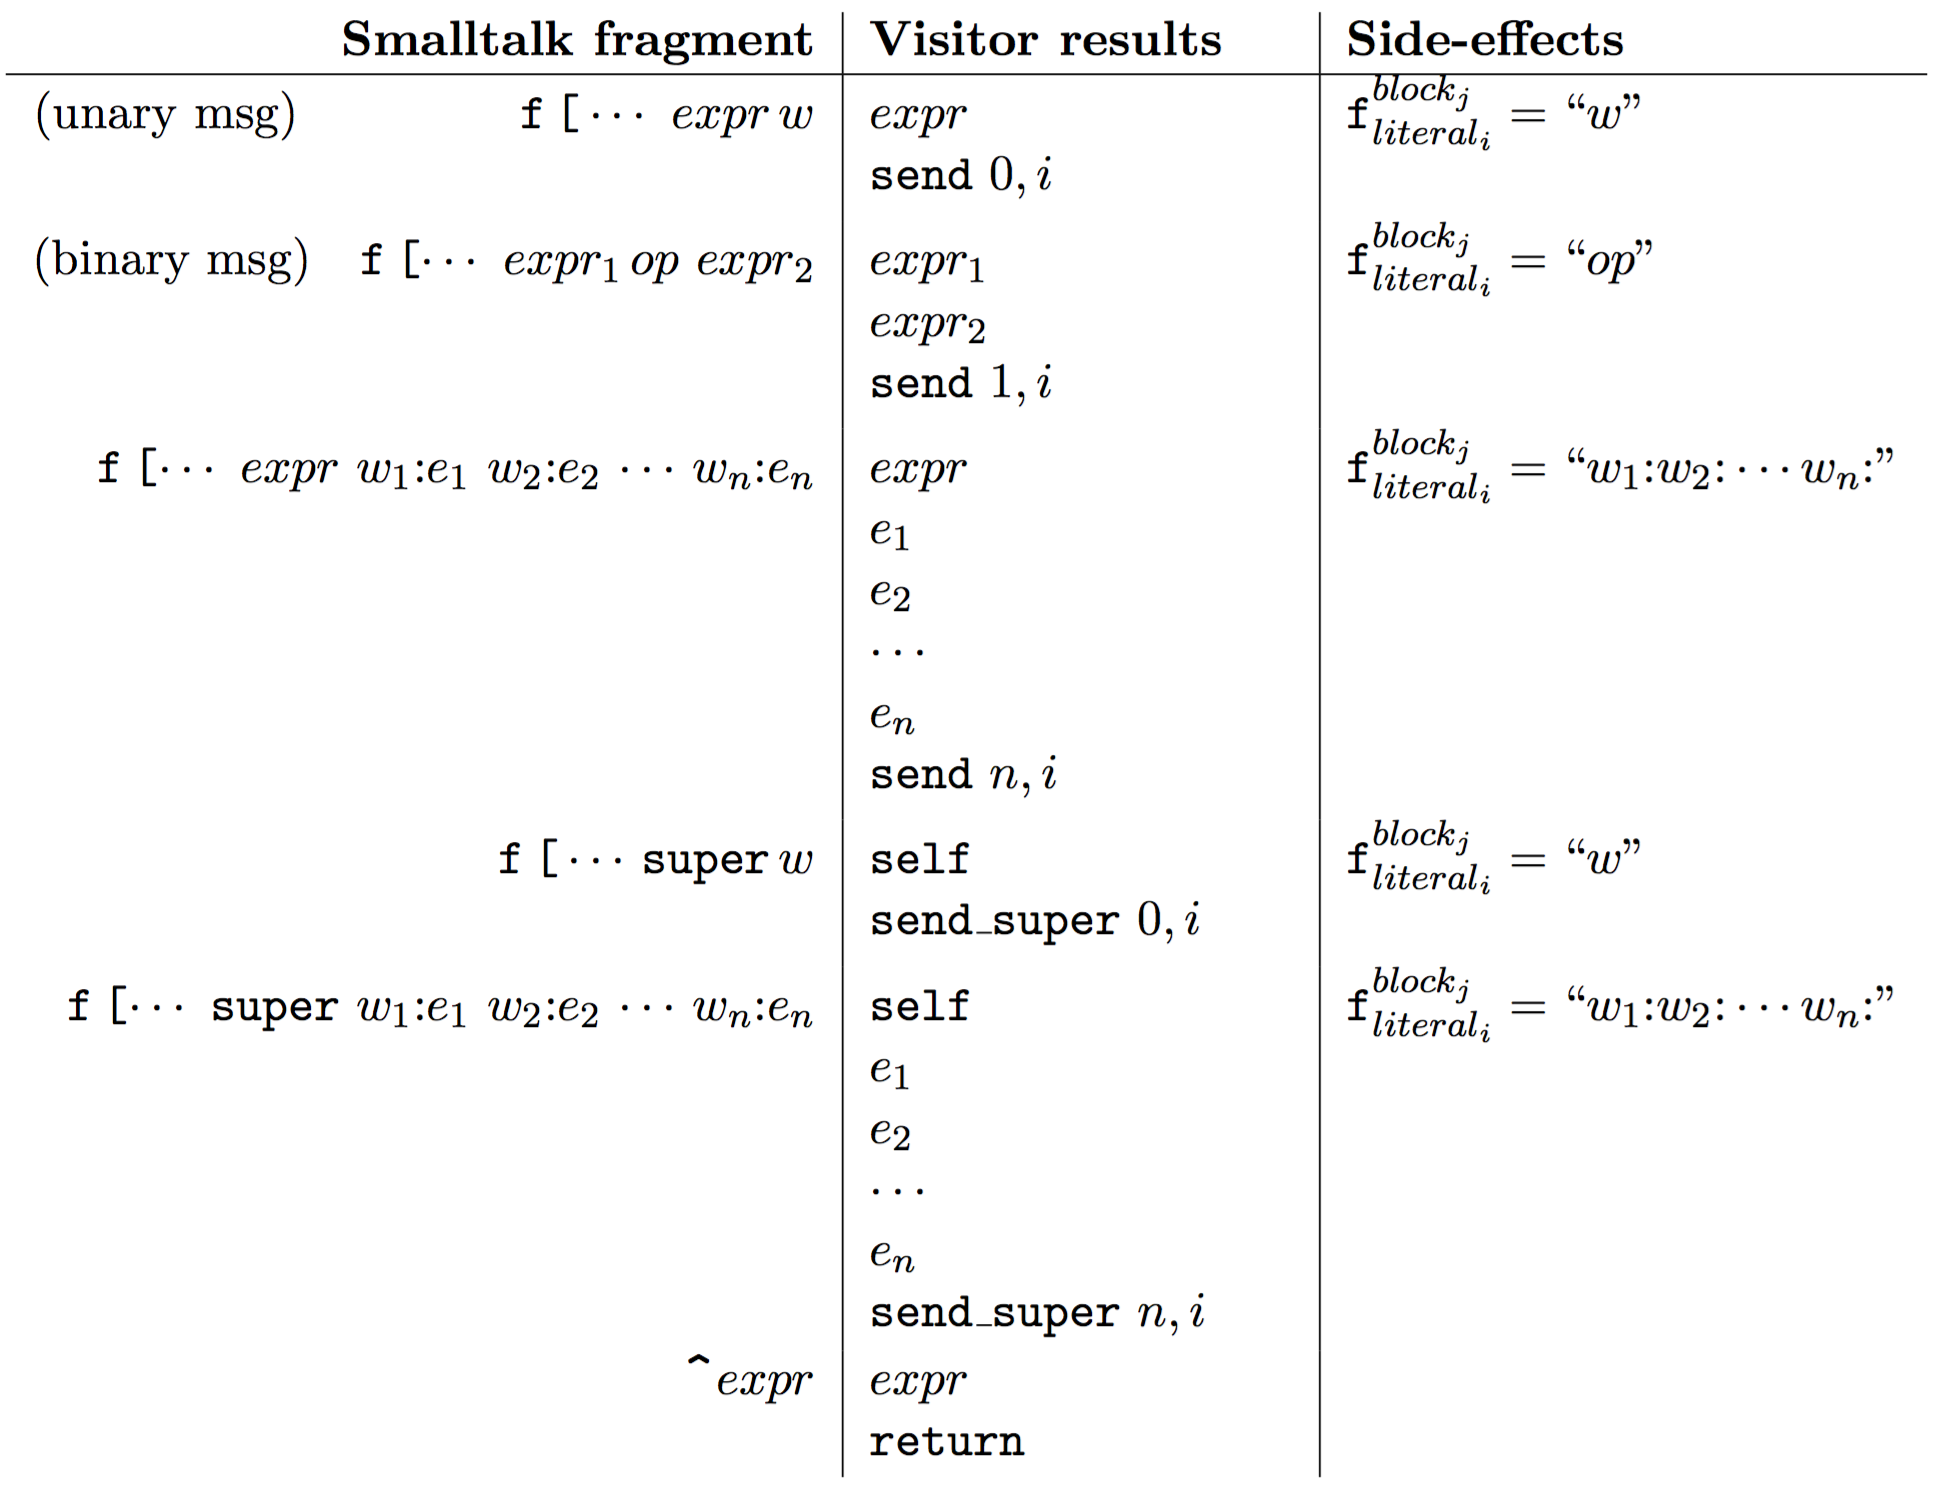
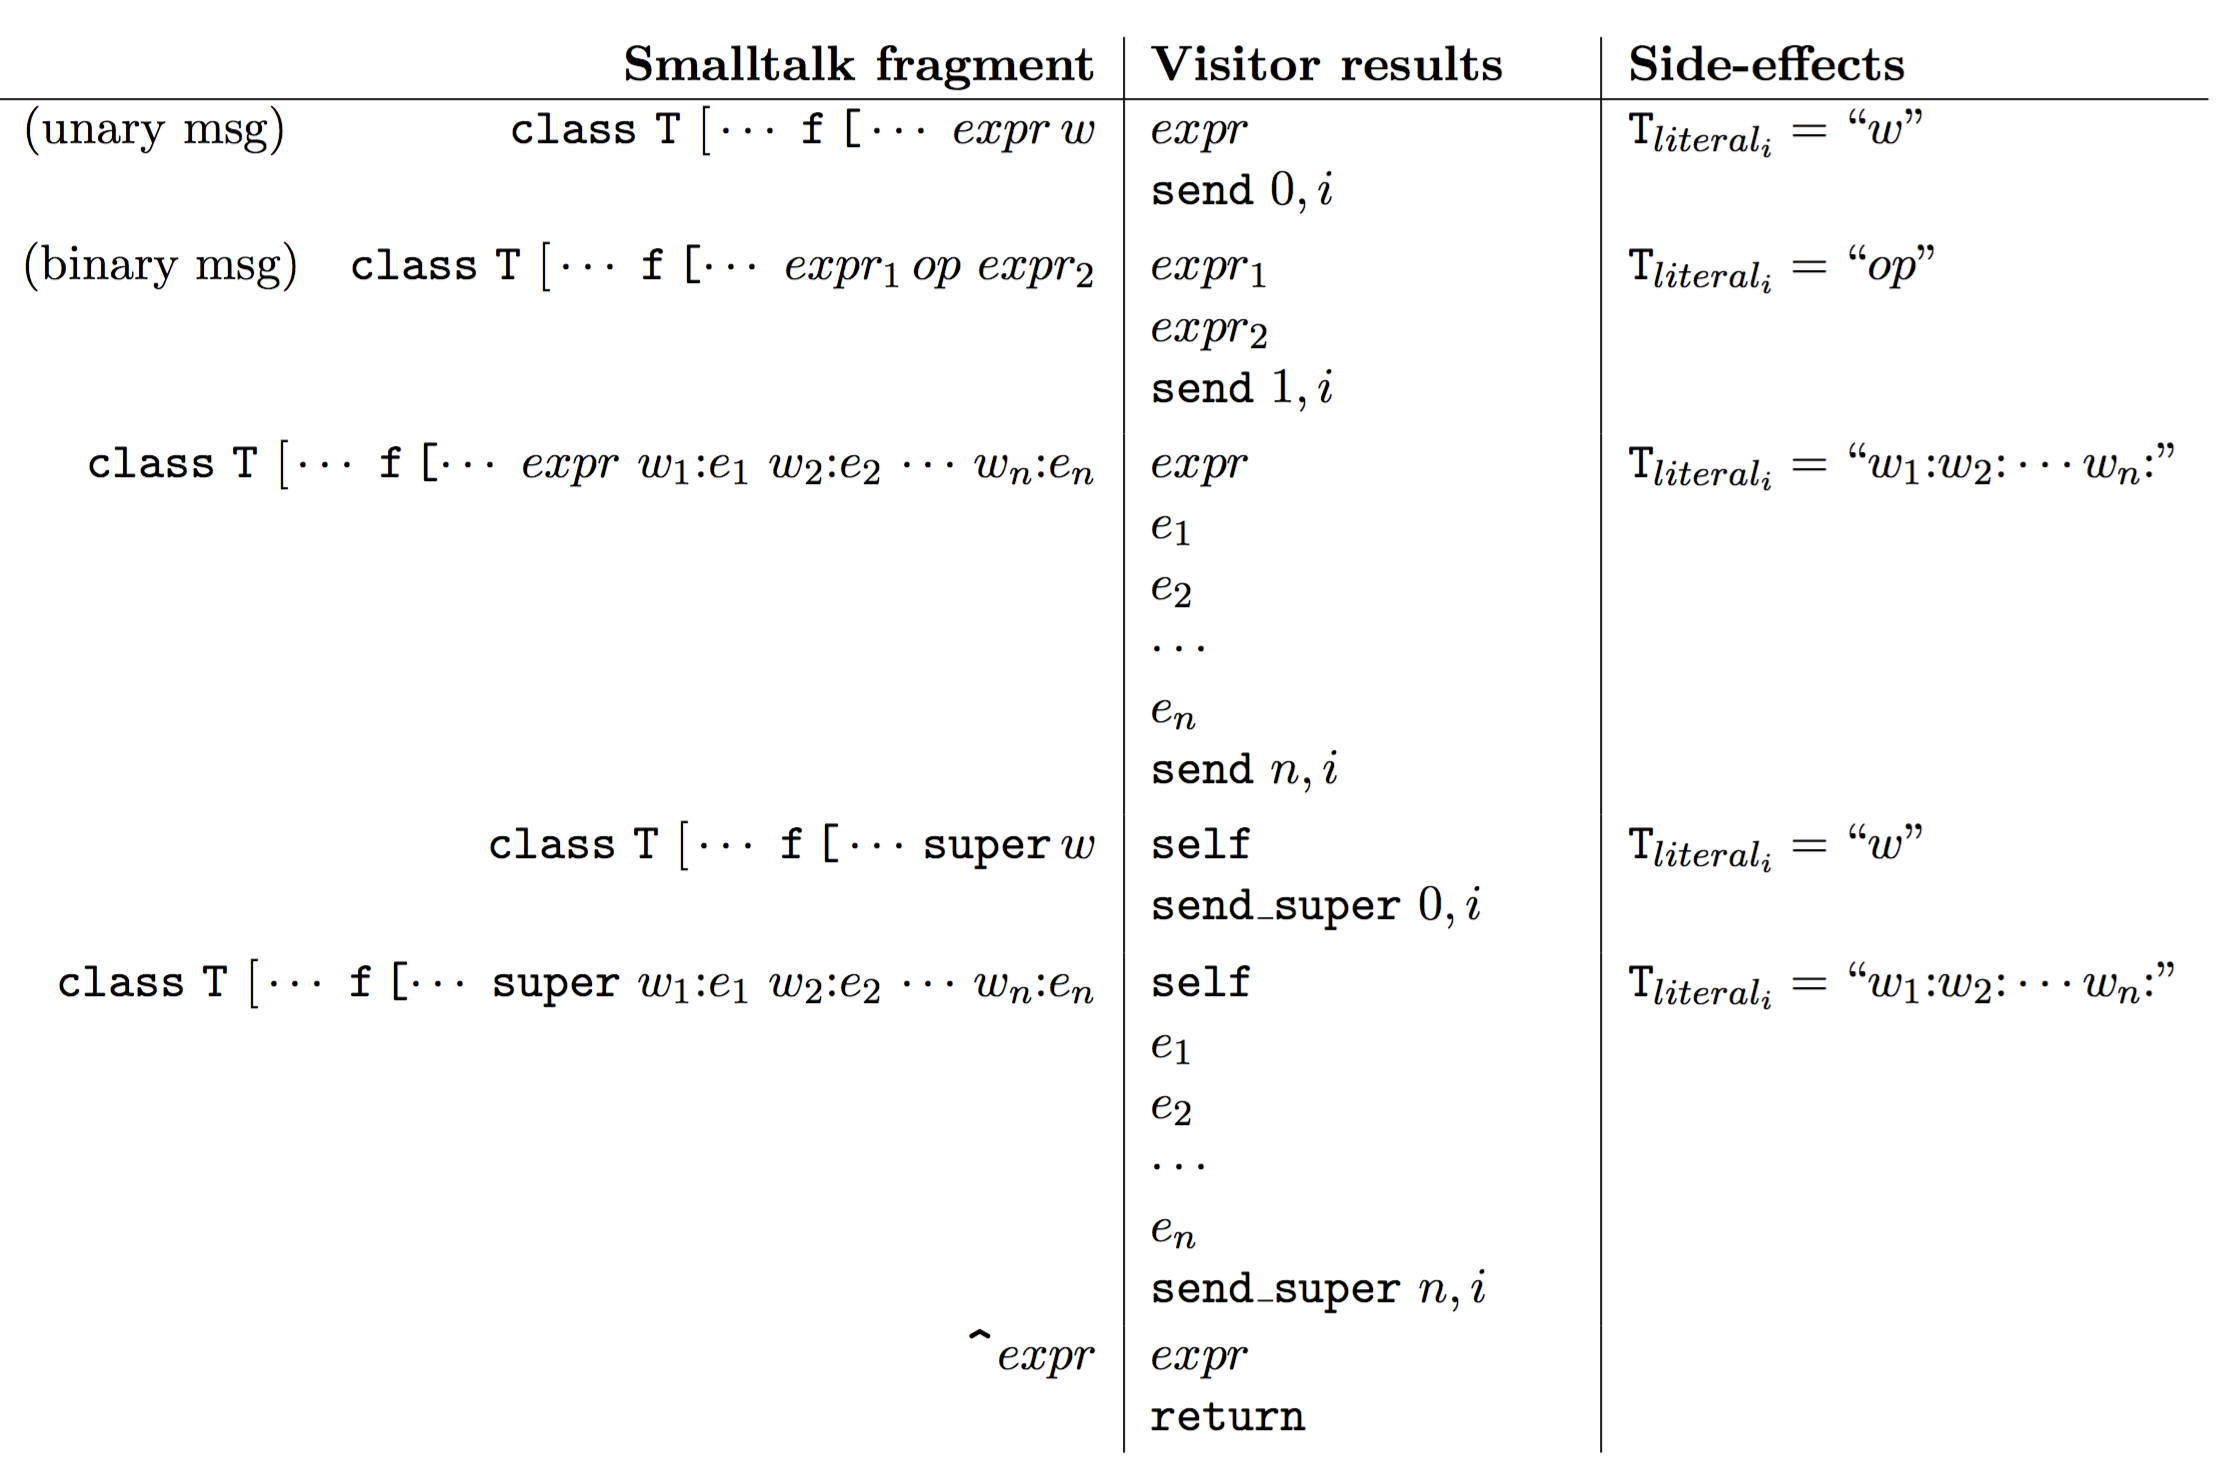
update proj descr

diff --git a/projects/bytecode.tex b/projects/bytecode.tex
@@ -598,20 +598,20 @@ $expr_n$\\
 \begin{tabular}[t]{r | l | l }
 {\bf Smalltalk fragment} & {\bf Visitor results} & {\bf Side-effects}\\
 \hline
-(unary msg)~~~~~~~~~~~~\, {\tt f\,[}\,$\cdots ~expr \,w$ &
+(unary msg)~~~~~~~~~~~~\, ${\tt class~ T~[} \cdots\,$ {\tt f\,[}\,$\cdots ~expr \,w$ &
 \begin{minipage}[t]{0.2\linewidth}
 $expr$\\
 {\tt send} $0,i$\vspace{5pt}
-\end{minipage}  & $\text{\tt f}^{block_j}_{literal_i} = ``w$'' \\
+\end{minipage}  & $\text{\tt T}_{literal_i} = ``w$'' \\
 
-(binary msg)~~~{\tt f\,[}$\cdots ~expr_1\, op~ expr_2$ &
+(binary msg)~~~${\tt class~ T~[} \cdots\,$ {\tt f\,[}$\cdots ~expr_1\, op~ expr_2$ &
 \begin{minipage}[t]{0.2\linewidth}
 $expr_1$\\
 $expr_2$\\
 {\tt send} $1,i$\vspace{5pt}
-\end{minipage}  & $\text{\tt f}^{block_j}_{literal_i} = ``op$'' \\
+\end{minipage}  & $\text{\tt T}_{literal_i} = ``op$'' \\
 
-{\tt f\,[}$\cdots ~expr ~w_1{\tt :} e_1 ~ w_2{\tt :} e_2 \, \cdots \, w_n{\tt :} e_n$ &
+${\tt class~ T~[} \cdots\,$ {\tt f\,[}$\cdots ~expr ~w_1{\tt :} e_1 ~ w_2{\tt :} e_2 \, \cdots \, w_n{\tt :} e_n$ &
 \begin{minipage}[t]{0.2\linewidth}
 $expr$\\
 $e_1$\\
@@ -619,15 +619,15 @@ $e_2$\\
 $\cdots$\\
 $e_n$\\
 {\tt send} $n,i$\vspace{5pt}
-\end{minipage}  & $\text{\tt f}^{block_j}_{literal_i} = ``w_1{\tt :}w_2{\tt :}\cdots w_n{\tt :}$'' \\
+\end{minipage}  & $\text{\tt T}_{literal_i} = ``w_1{\tt :}w_2{\tt :}\cdots w_n{\tt :}$'' \\
 
-{\tt f\,[}$\,\cdots \,{\tt super} \,w$ &
+${\tt class~ T~[} \cdots\,$ {\tt f\,[}$\,\cdots \,{\tt super} \,w$ &
 \begin{minipage}[t]{0.2\linewidth}
 {\tt self}\\
 {\tt send\_super} $0,i$\vspace{5pt}
-\end{minipage}  & $\text{\tt f}^{block_j}_{literal_i} = ``w$'' \\
+\end{minipage}  & $\text{\tt T}_{literal_i} = ``w$'' \\
 
-{\tt f\,[}$\cdots ~{\tt super} ~w_1{\tt :} e_1 ~ w_2{\tt :} e_2 \, \cdots \, w_n{\tt :} e_n$ &
+${\tt class~ T~[} \cdots\,$ {\tt f\,[}$\cdots ~{\tt super} ~w_1{\tt :} e_1 ~ w_2{\tt :} e_2 \, \cdots \, w_n{\tt :} e_n$ &
 \begin{minipage}[t]{0.2\linewidth}
 {\tt self}\\
 $e_1$\\
@@ -635,7 +635,7 @@ $e_2$\\
 $\cdots$\\
 $e_n$\\
 {\tt send\_super} $n,i$\vspace{3pt}
-\end{minipage}  & $\text{\tt f}^{block_j}_{literal_i} = ``w_1{\tt :}w_2{\tt :}\cdots w_n{\tt :}$''\\
+\end{minipage}  & $\text{\tt T}_{literal_i} = ``w_1{\tt :}w_2{\tt :}\cdots w_n{\tt :}$''\\
 
 {\tt\Large \verb=^=}$expr$ &
 \begin{minipage}[t]{0.2\linewidth}
